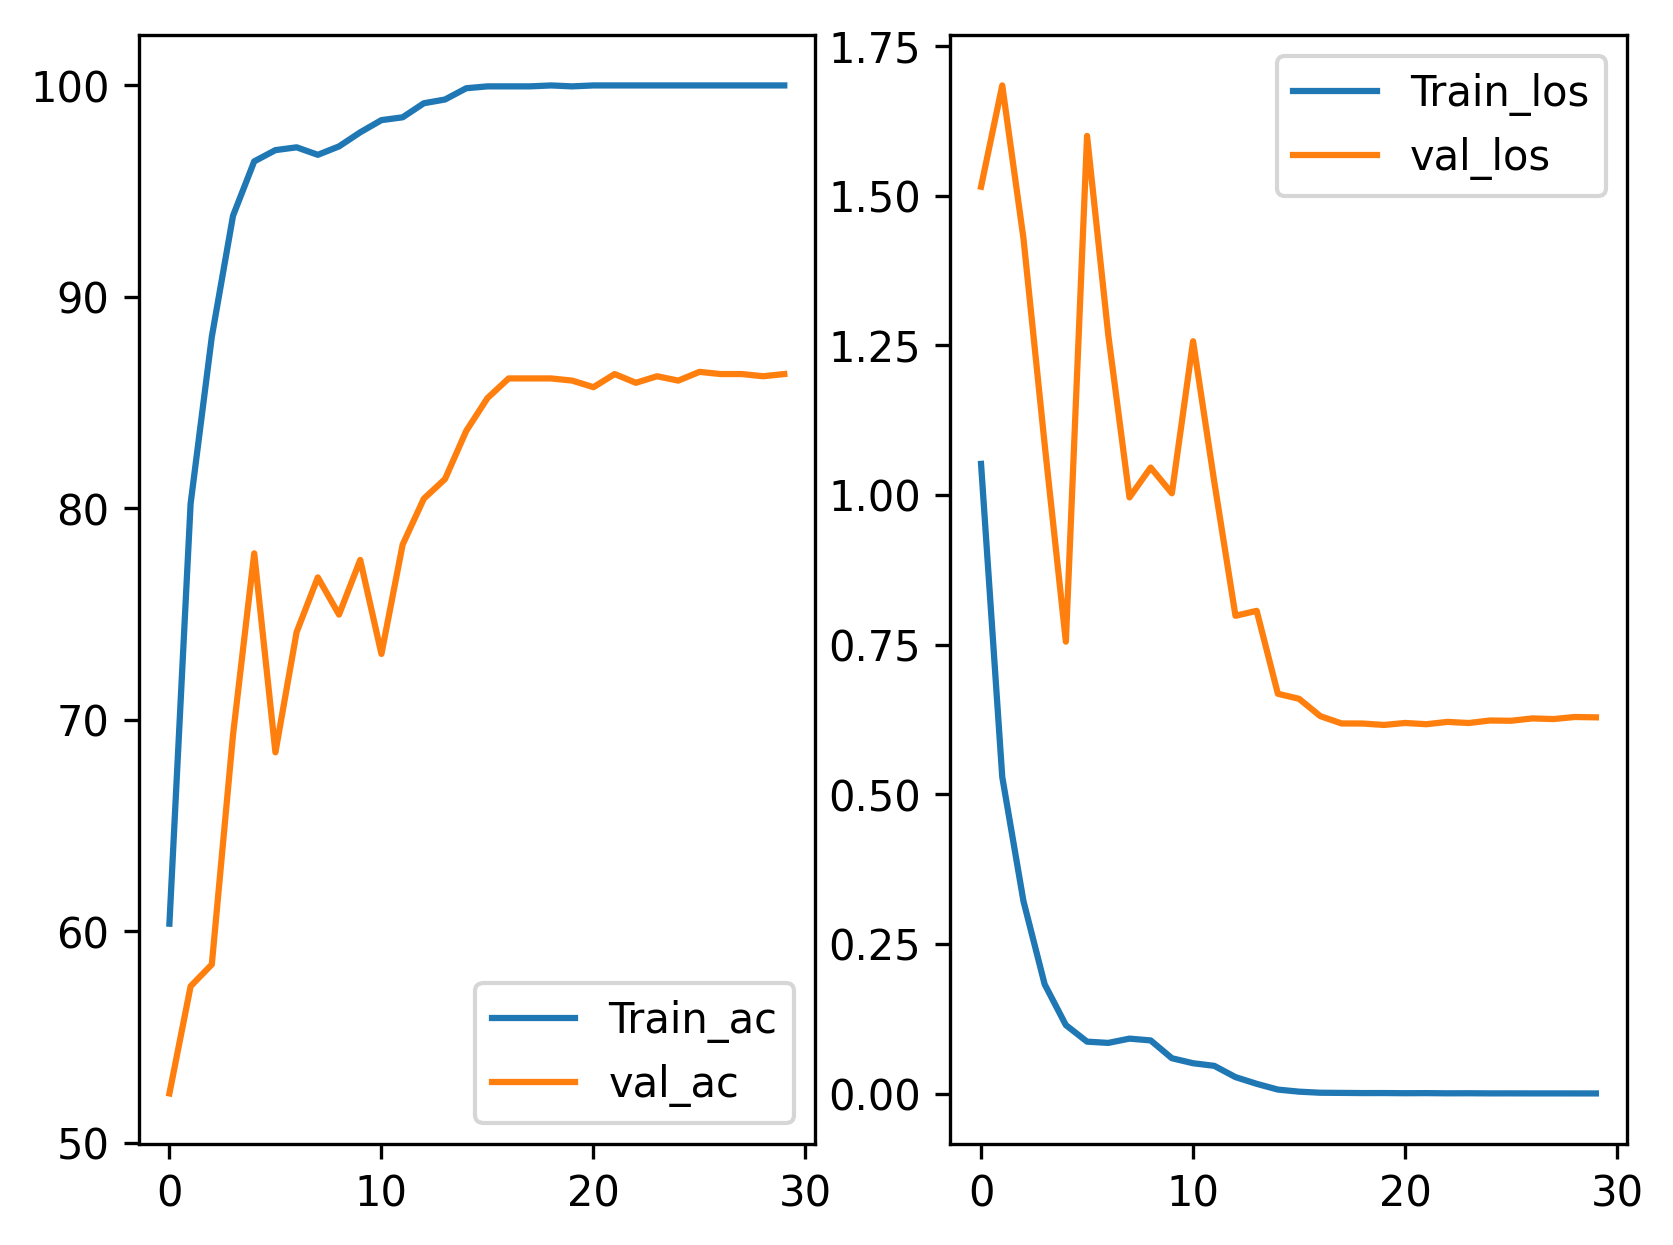
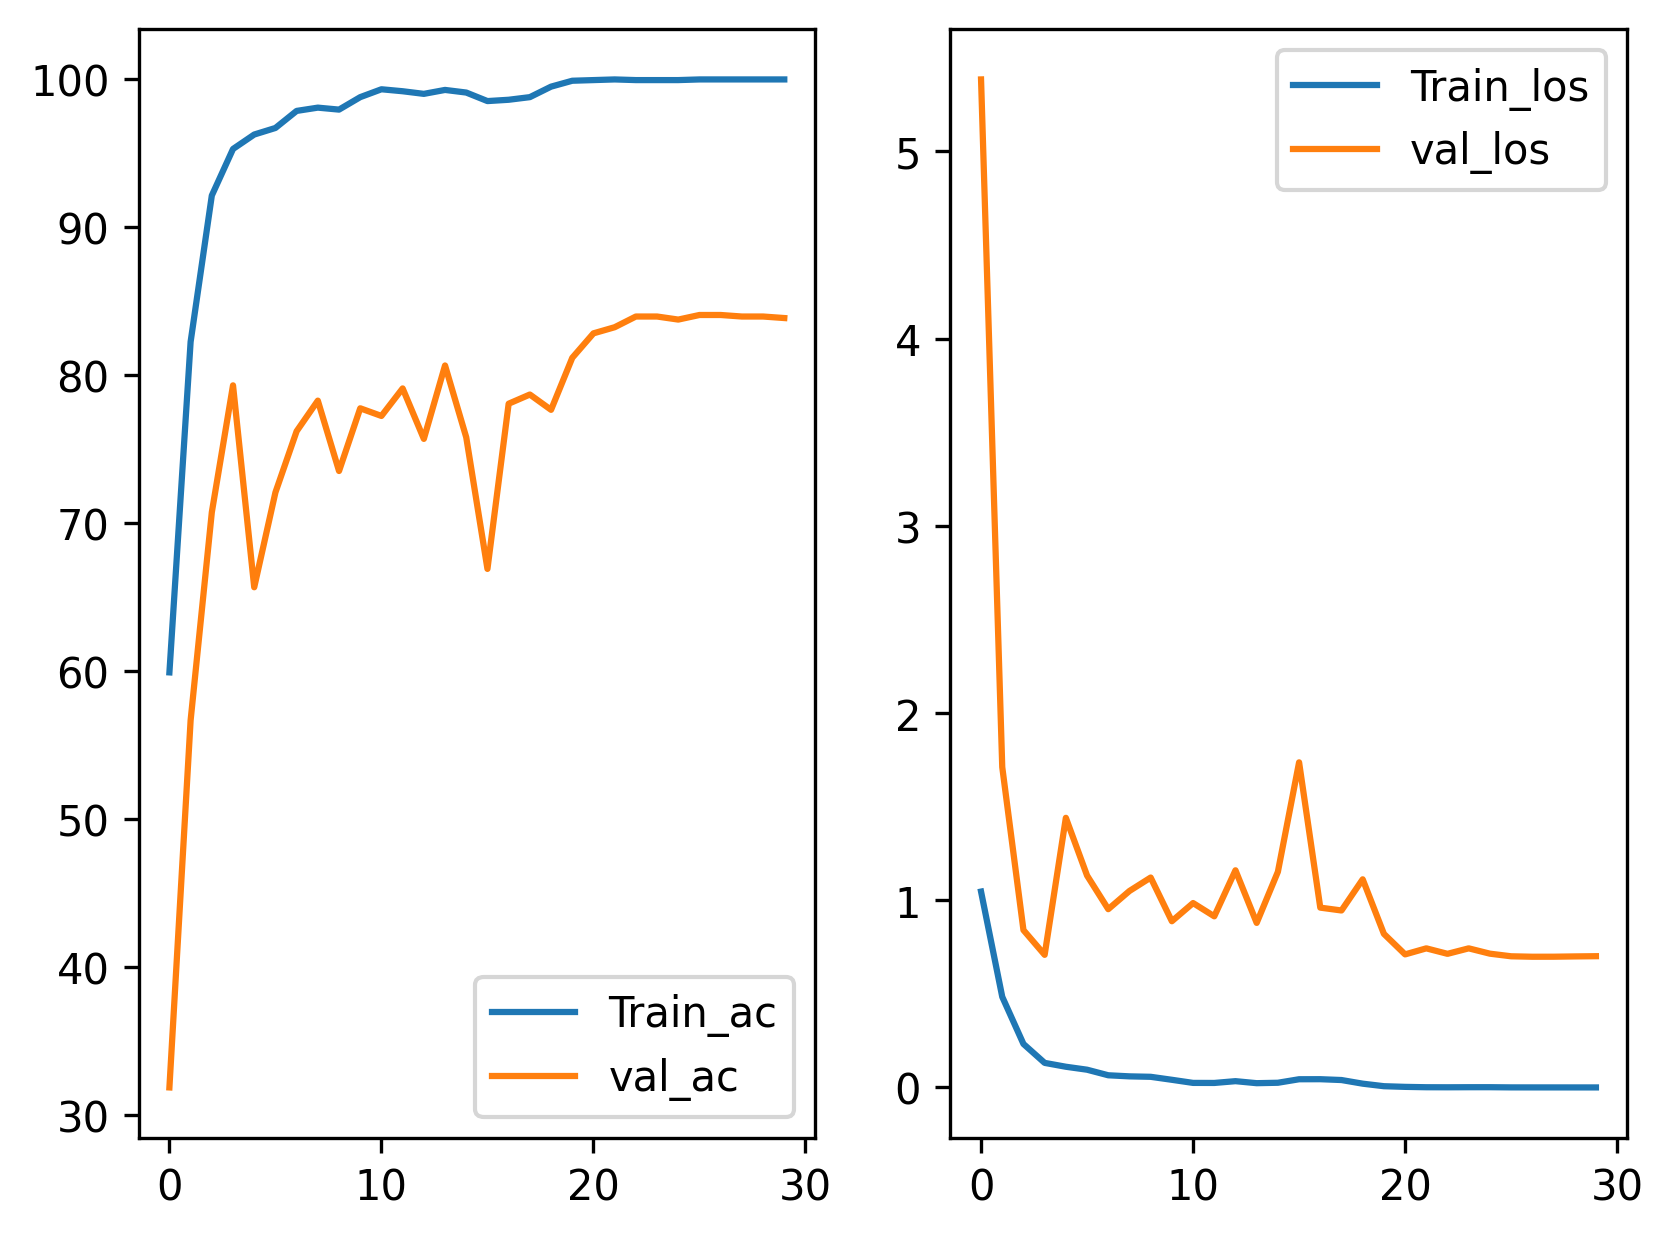
Naming

diff --git a/Config/config_model2.py b/Config/config_model2.py
@@ -24,7 +24,7 @@ class Config:
     def _set_hyperparameters(self):
         """Define all hyperparameters."""
         self._batch_size = 128
-        self._learning_rate = 0.005
+        self._learning_rate = 0.001
         self._epochs = 30
         self._valdata_ratio = 0.3
         self._width_transform=64
